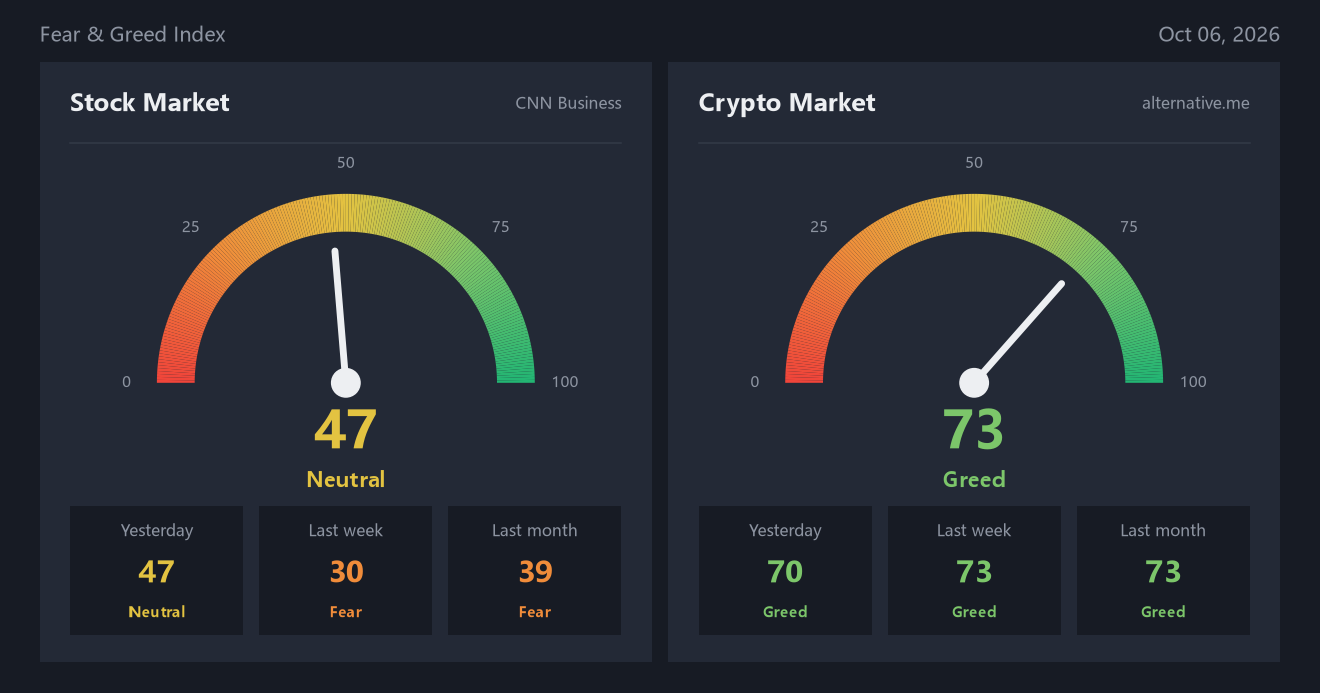
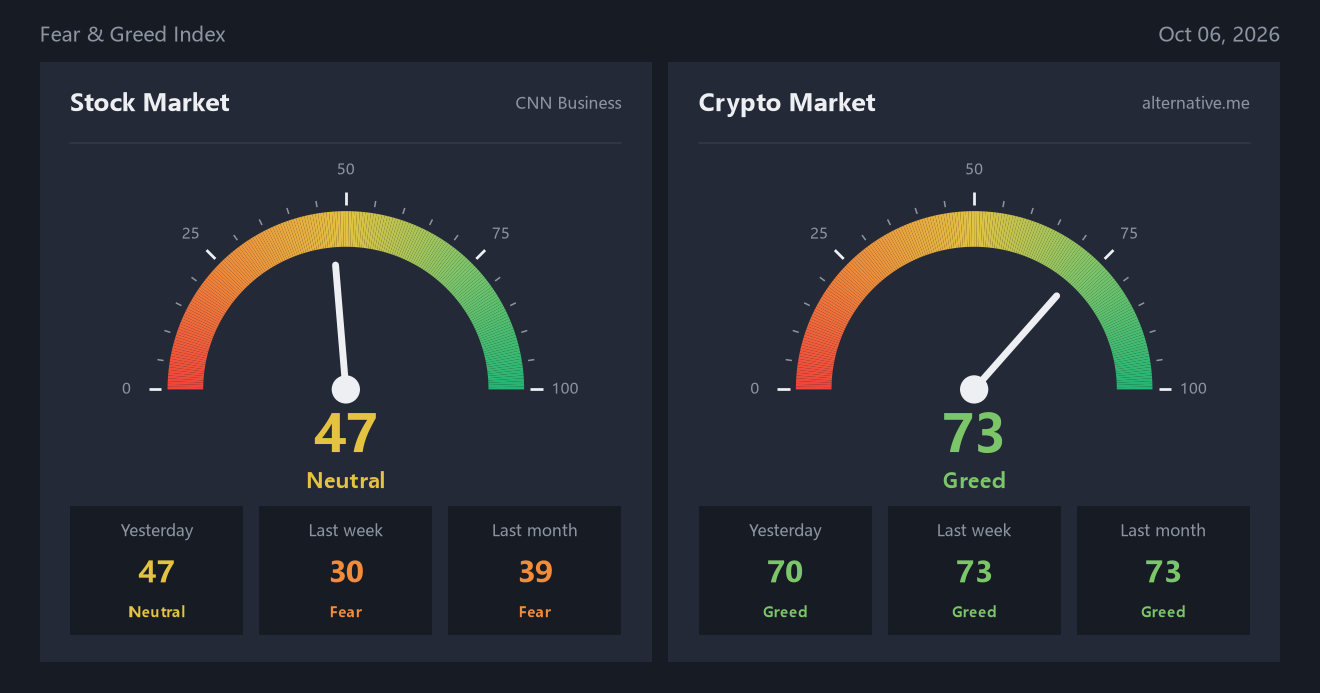
Fear & Greed: gauge tick marks and one-line headings
- Tick every 5 points around each gauge, longer and labelled every 25
- Shorter field headings so the crypto column no longer wraps in Discord
  and both columns stay aligned

diff --git a/market_pulse/fear_greed.py b/market_pulse/fear_greed.py
@@ -172,7 +172,9 @@ def load_cnn(state):
     score = float(data.get("fear_and_greed", {}).get("score", 0))
     return {
         "key": "cnn_last",
-        "heading": "CNN Market Sentiment Tracker",
+        # Kept short: side-by-side embed fields are narrow, and a longer
+        # heading wraps onto a second line and knocks the two columns out of line.
+        "heading": "CNN Market Sentiment",
         "title": "Stock Market",
         "source": "CNN Business",
         "value": score,
@@ -224,7 +226,7 @@ def load_crypto(state):
     prev_value = float(entries[1]["value"]) if len(entries) > 1 else None
     return {
         "key": "crypto_last",
-        "heading": "Crypto Market Sentiment Tracker",
+        "heading": "Crypto Market Sentiment",
         "title": "Crypto Market",
         "source": "alternative.me",
         "value": current_value,
@@ -239,8 +241,8 @@ def load_crypto(state):
 
 def draw_gauge(fig, font, rect, value):
     ax = fig.add_axes(rect)
-    ax.set_xlim(-1.32, 1.32)
-    ax.set_ylim(-0.62, 1.22)
+    ax.set_xlim(-1.40, 1.40)
+    ax.set_ylim(-0.62, 1.33)
     ax.set_aspect("equal")
     ax.axis("off")
 
@@ -251,10 +253,17 @@ def draw_gauge(fig, font, rect, value):
         ax.add_patch(mpatches.Wedge((0, 0), r_outer, 180 - t1 * 180, 180 - t0 * 180, width=width,
                                     facecolor=cmap(t0), edgecolor="none"))
 
-    for tick in (0, 25, 50, 75, 100):
+    # Scale: a tick every 5 points just outside the arc, longer and labelled every 25.
+    for tick in range(0, 101, 5):
         angle = np.radians(180 - tick / 100 * 180)
-        ax.text(1.16 * np.cos(angle), 1.16 * np.sin(angle), str(tick), fontproperties=font(10),
-                color=MUTED, ha="center", va="center")
+        cos, sin = np.cos(angle), np.sin(angle)
+        major = tick % 25 == 0
+        r0, r1 = 1.035, (1.105 if major else 1.07)
+        ax.plot([r0 * cos, r1 * cos], [r0 * sin, r1 * sin], color=TEXT if major else MUTED,
+                linewidth=1.8 if major else 1.0, solid_capstyle="butt")
+        if major:
+            ax.text(1.23 * cos, 1.23 * sin, str(tick), fontproperties=font(10),
+                    color=MUTED, ha="center", va="center")
 
     angle = np.radians(180 - max(0, min(value, 100)) / 100 * 180)
     ax.plot([0, 0.70 * np.cos(angle)], [0, 0.70 * np.sin(angle)], color=TEXT, linewidth=4.5,
@@ -367,10 +376,10 @@ def load_panels(state):
 
 def sample_panels():
     return [
-        {"key": "cnn_last", "heading": "CNN Market Sentiment Tracker (Test)", "title": "Stock Market",
+        {"key": "cnn_last", "heading": "CNN Market Sentiment (Test)", "title": "Stock Market",
          "source": "CNN Business", "value": 37.51, "commentary": "This is a test message.",
          "history": [("Now", 37.51), ("Yesterday", 38.6), ("Last week", 41.2), ("Last month", 35.0)]},
-        {"key": "crypto_last", "heading": "Crypto Market Sentiment Tracker (Test)", "title": "Crypto Market",
+        {"key": "crypto_last", "heading": "Crypto Market Sentiment (Test)", "title": "Crypto Market",
          "source": "alternative.me", "value": 70.0, "commentary": "This is a test message.",
          "history": [("Now", 70.0), ("Yesterday", 65.0), ("Last week", 74.0), ("Last month", 73.0)]},
     ]

diff --git a/tests/test_fear_greed.py b/tests/test_fear_greed.py
@@ -65,8 +65,8 @@ def panel(key, heading, value, commentary):
             "value": value, "commentary": commentary, "history": [("Now", value)] * 4}
 
 
-CNN = panel("cnn_last", "CNN Market Sentiment Tracker", 43.23, "Fear (43.2) (-0.6).")
-CRYPTO = panel("crypto_last", "Crypto Market Sentiment Tracker", 70.0, "Greed (70.0) (+5.0).")
+CNN = panel("cnn_last", "CNN Market Sentiment", 43.23, "Fear (43.2) (-0.6).")
+CRYPTO = panel("crypto_last", "Crypto Market Sentiment", 70.0, "Greed (70.0) (+5.0).")
 MISSING = {"title": "Crypto Market", "source": "alternative.me", "value": None}
 
 
@@ -75,16 +75,25 @@ class EmbedTest(unittest.TestCase):
         embed = fg.build_embed([CNN, CRYPTO], "fear_greed.png")
         self.assertEqual(embed["image"], {"url": "attachment://fear_greed.png"})
         self.assertEqual(embed["fields"], [
-            {"name": "CNN Market Sentiment Tracker",
+            {"name": "CNN Market Sentiment",
              "value": "Fear (43.2) (-0.6).\n**Current Value**\n43.23", "inline": True},
-            {"name": "Crypto Market Sentiment Tracker",
+            {"name": "Crypto Market Sentiment",
              "value": "Greed (70.0) (+5.0).\n**Current Value**\n70.00", "inline": True},
         ])
         self.assertEqual(embed["color"], int(fg.rating_color(43.23).lstrip("#"), 16))
 
+    def test_headings_are_short_enough_to_stay_on_one_line(self):
+        # "CNN Market Sentiment Tracker" (28 characters) was the longest that fit.
+        cnn = mock.patch.object(fg, "fetch_cnn_data", return_value={"fear_and_greed": {"score": 50}})
+        crypto = mock.patch.object(fg, "fetch_crypto_data", return_value=[{"value": "50"}, {"value": "50"}])
+        with cnn, crypto:
+            headings = [fg.load_cnn({})["heading"], fg.load_crypto({})["heading"]]
+        self.assertEqual(headings, ["CNN Market Sentiment", "Crypto Market Sentiment"])
+        self.assertTrue(all(len(heading) <= 24 for heading in headings))
+
     def test_an_index_without_data_is_left_out_of_the_text(self):
         embed = fg.build_embed([CNN, MISSING], "x.png")
-        self.assertEqual([field["name"] for field in embed["fields"]], ["CNN Market Sentiment Tracker"])
+        self.assertEqual([field["name"] for field in embed["fields"]], ["CNN Market Sentiment"])
 
 
 class MainTest(unittest.TestCase):
